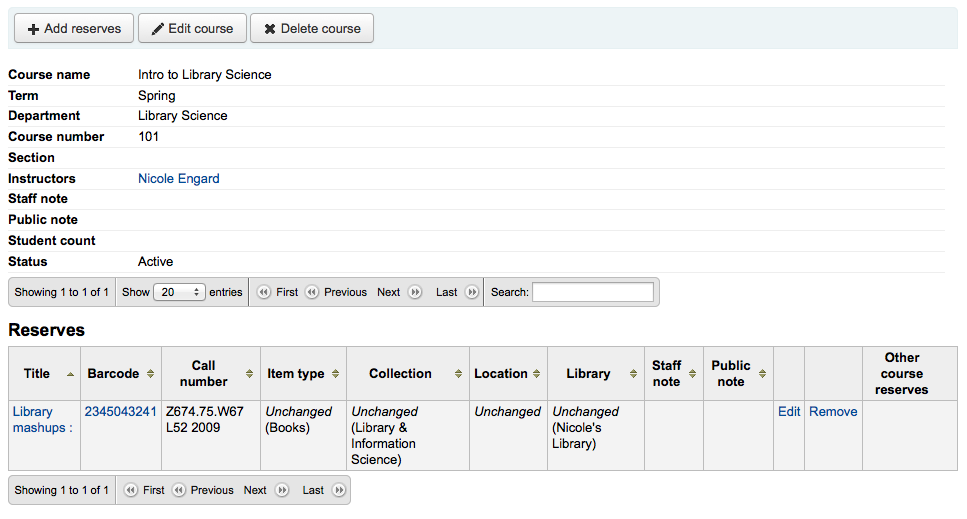
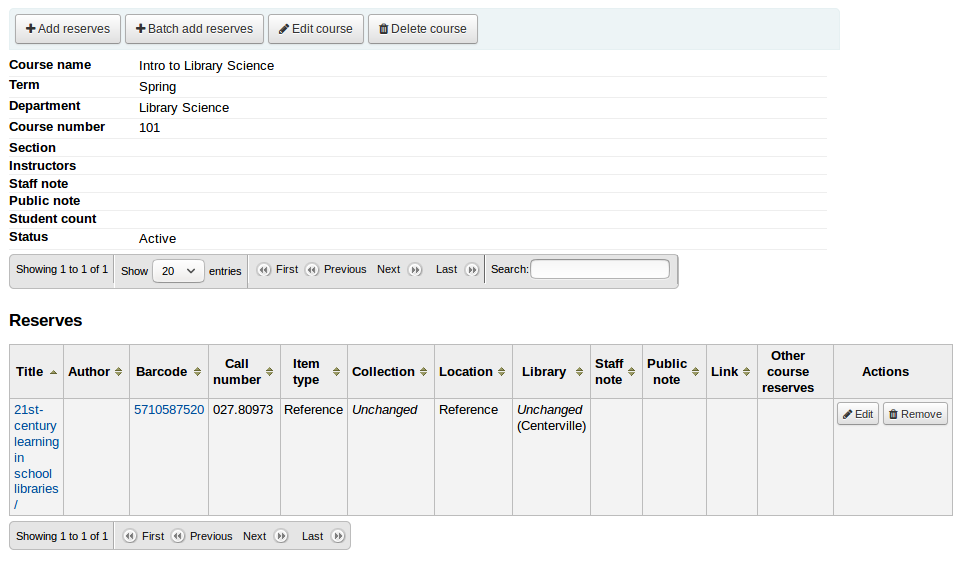
Bug 20467 - Document how to batch add items to a course
Also changed a couple of screenshots to show the new button

diff --git a/source/course_reserves.rst b/source/course_reserves.rst
@@ -90,10 +90,25 @@ for the reserve item.
 
 |image733|
 
+For each item, you can change the item type, collection code, shelving location 
+or holding library. These changes will only apply while the course is 
+active. When you deactivate the course, the items will go back to their original 
+settings.
+
+|image1357|
+
 After you are done scanning the barcodes to add to the course you can
 see them on the course page
 
 |image734|
+
+You also have the possibility of adding several items at the same time. 
+Click on 'Batch add reserves'. 
+
+|image1358|
+
+Scan the barcodes of the items you want to add to the reserve and change the 
+item type, collection code, shelving location or holding library, if needed.
 
 .. _course-reserves-in-the-opac-label:
 

diff --git a/source/images.rst b/source/images.rst
@@ -1345,3 +1345,5 @@
 .. |image1354| image:: images/patrons/houseboundrolesdeliveries2.png
 .. |image1355| image:: images/tools/importpatrons/patronattributes.png
 .. |image1356| image:: images/serials/batchrenew.png
+.. |image1357| image:: images/coursereserves/additem.png
+.. |image1358| image:: images/coursereserves/batchadditems.png
